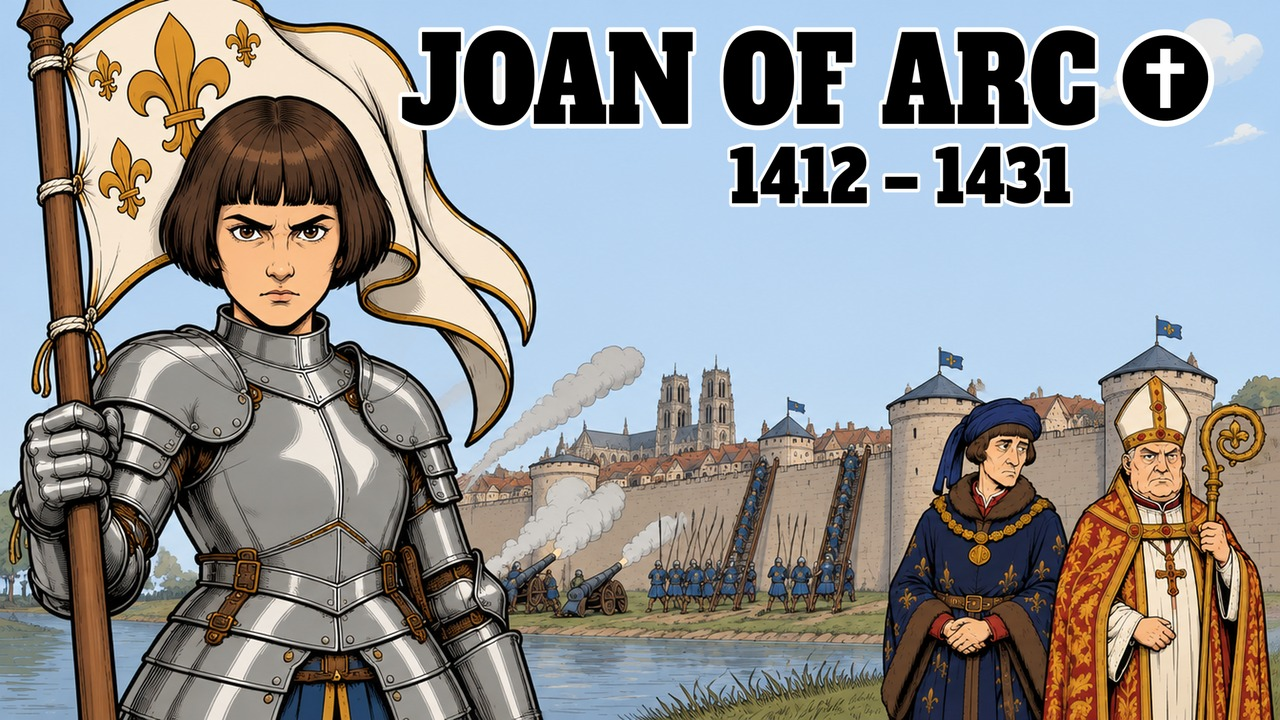
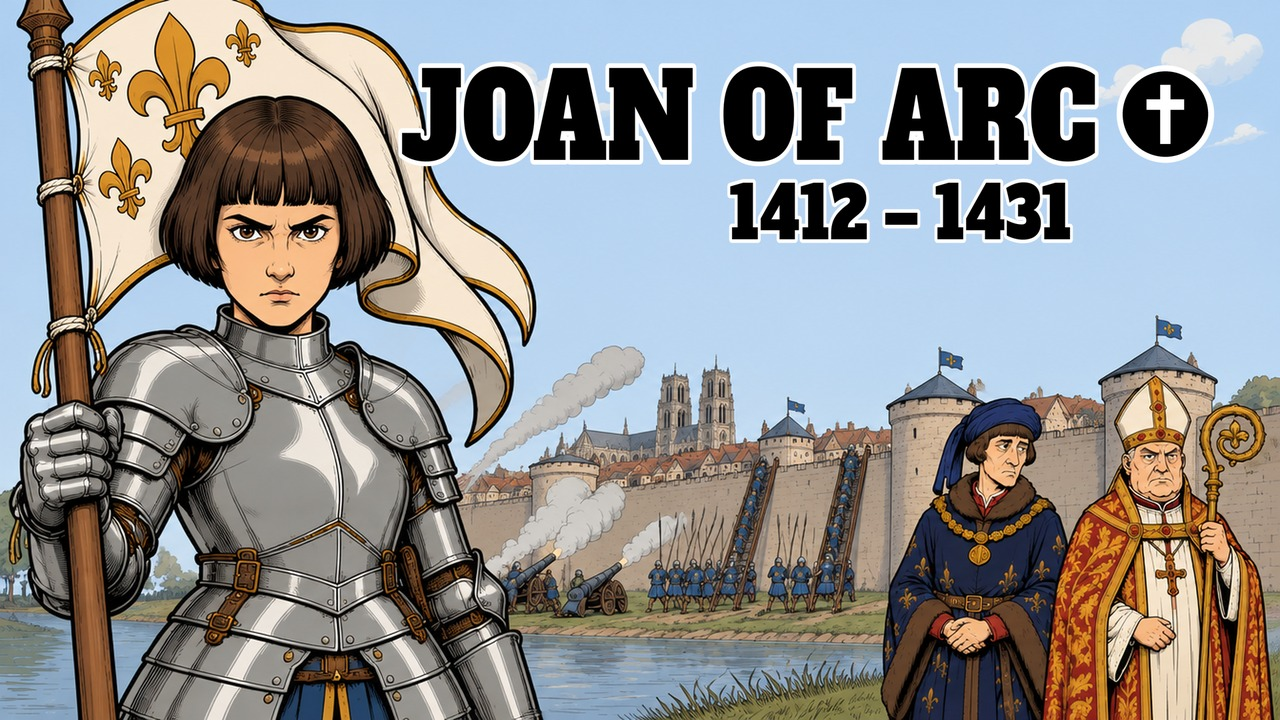
Joan of Arc thumbnail: title moved lower
Claude-Session: https://claude.ai/code/session_01TNc2K3rtukezXrYScECeSq

Changed region(s): [[0.3125, 0.0306, 0.9688, 0.3361]]

diff --git a/history/joan/thumbs/make_thumb.py b/history/joan/thumbs/make_thumb.py
@@ -16,7 +16,7 @@ T = layer("JOAN OF ARC", 300, 12, .78)
 T = T.resize((int(W * .55), int(T.height * W * .55 / T.width)), Image.LANCZOS)
 Y = layer("1412 – 1431", 200, 10, .80)
 Y = Y.resize((int(Y.width * T.height * .62 / Y.height), int(T.height * .62)), Image.LANCZOS)
-x1 = int(W * .86); ty = int(H * .035)
+x1 = int(W * .86); ty = int(H * .085)
 im.paste(T, (x1 - T.width, ty), T)
 im.paste(Y, (x1 - Y.width - int(W * .02), ty + T.height + int(H * .015)), Y)
 r = int(T.height * .40); cx = x1 + int(W * .012) + r + 10; cy = ty + T.height // 2
